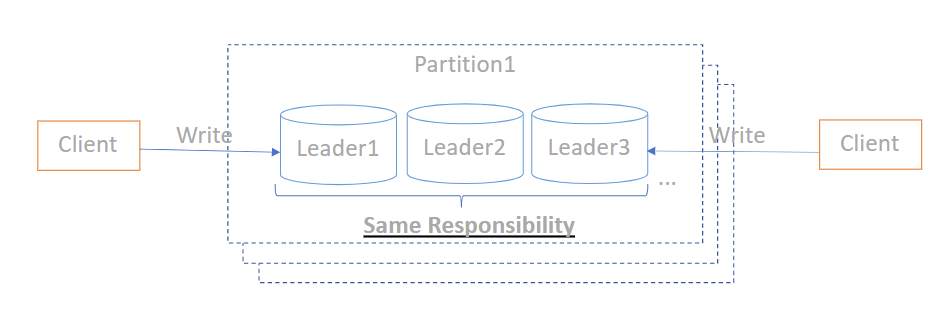
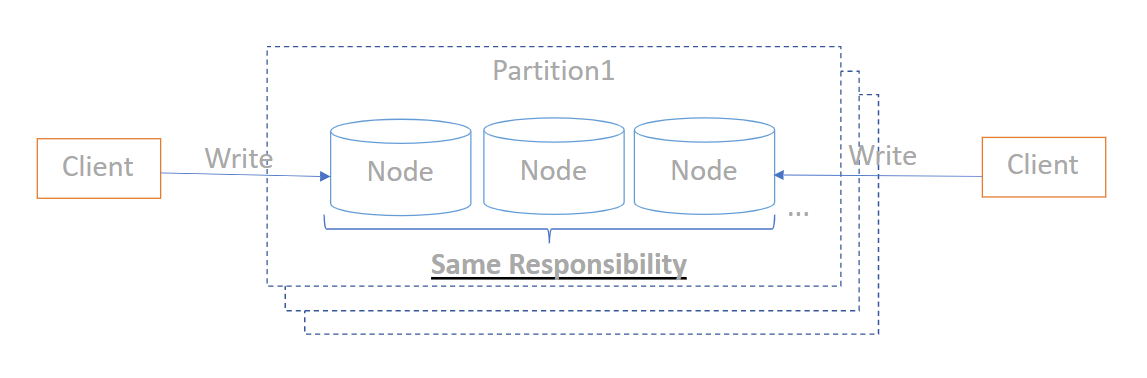
Replace Multi Leader with Leaderless.

diff --git a/comp_quorum_and_single_leader.md b/comp_quorum_and_single_leader.md
@@ -1,12 +1,12 @@
-# Comparison Between Quorum Model and Single Leader Model in Multi Writer KVS
+# Comparison Between Leaderless/Quorum Model and Single Leader Model in Multi Writer KVS
 
 ## Topology Comparision
 
-### Quorum Model(Multi Leader)
+### Leaderless/Quorum Model - Cassandra
 
-![multi leader](images/multi-leader.png)
+![leaderless](images/multi-leader.png)
 
-### Single Leader
+### Single Leader - DynamoDB, Spanner, YugabyteDB etc...
 
 ![single leader](images/single-leader.png)
 
@@ -15,7 +15,7 @@
 ||   | Quorum(Cassandra)  | CAS(Cassandra) | Single Leader(DynamoDB, Cloud Spanner, YugabyteDB etc...)  |
 |---|---|---|---|---|
 |Linearizability| Linearizability Support | No(with failure and/or Concurrent Write) | - | Yes(Write after Strong Consistent Read) |
-|Read| Stronger Single Node Read Consistency | No(Dirty Read)  |-| - | Yes(may not be up to date, but no Dirty Read) |
+|Read| Stronger Single Node Read Consistency | No(Dirty Read may occurr)  |-| Yes(data may not be up to date, but no Dirty Read) |
 || Strong Consistent Read Support | No(Read Quorum cannot ensure Strong Consistent Read even with foreground blocking Read Repair) | - | Yes(Single Leader ensures Strong Consistent Read) |
 || Read Effeciency | No(must read from multiple nodes) |  - | Yes(No Read Quorum) |
 |Write| Strong Write Consistency | No(may incur Dirty Data) |  Yes | Yes |
